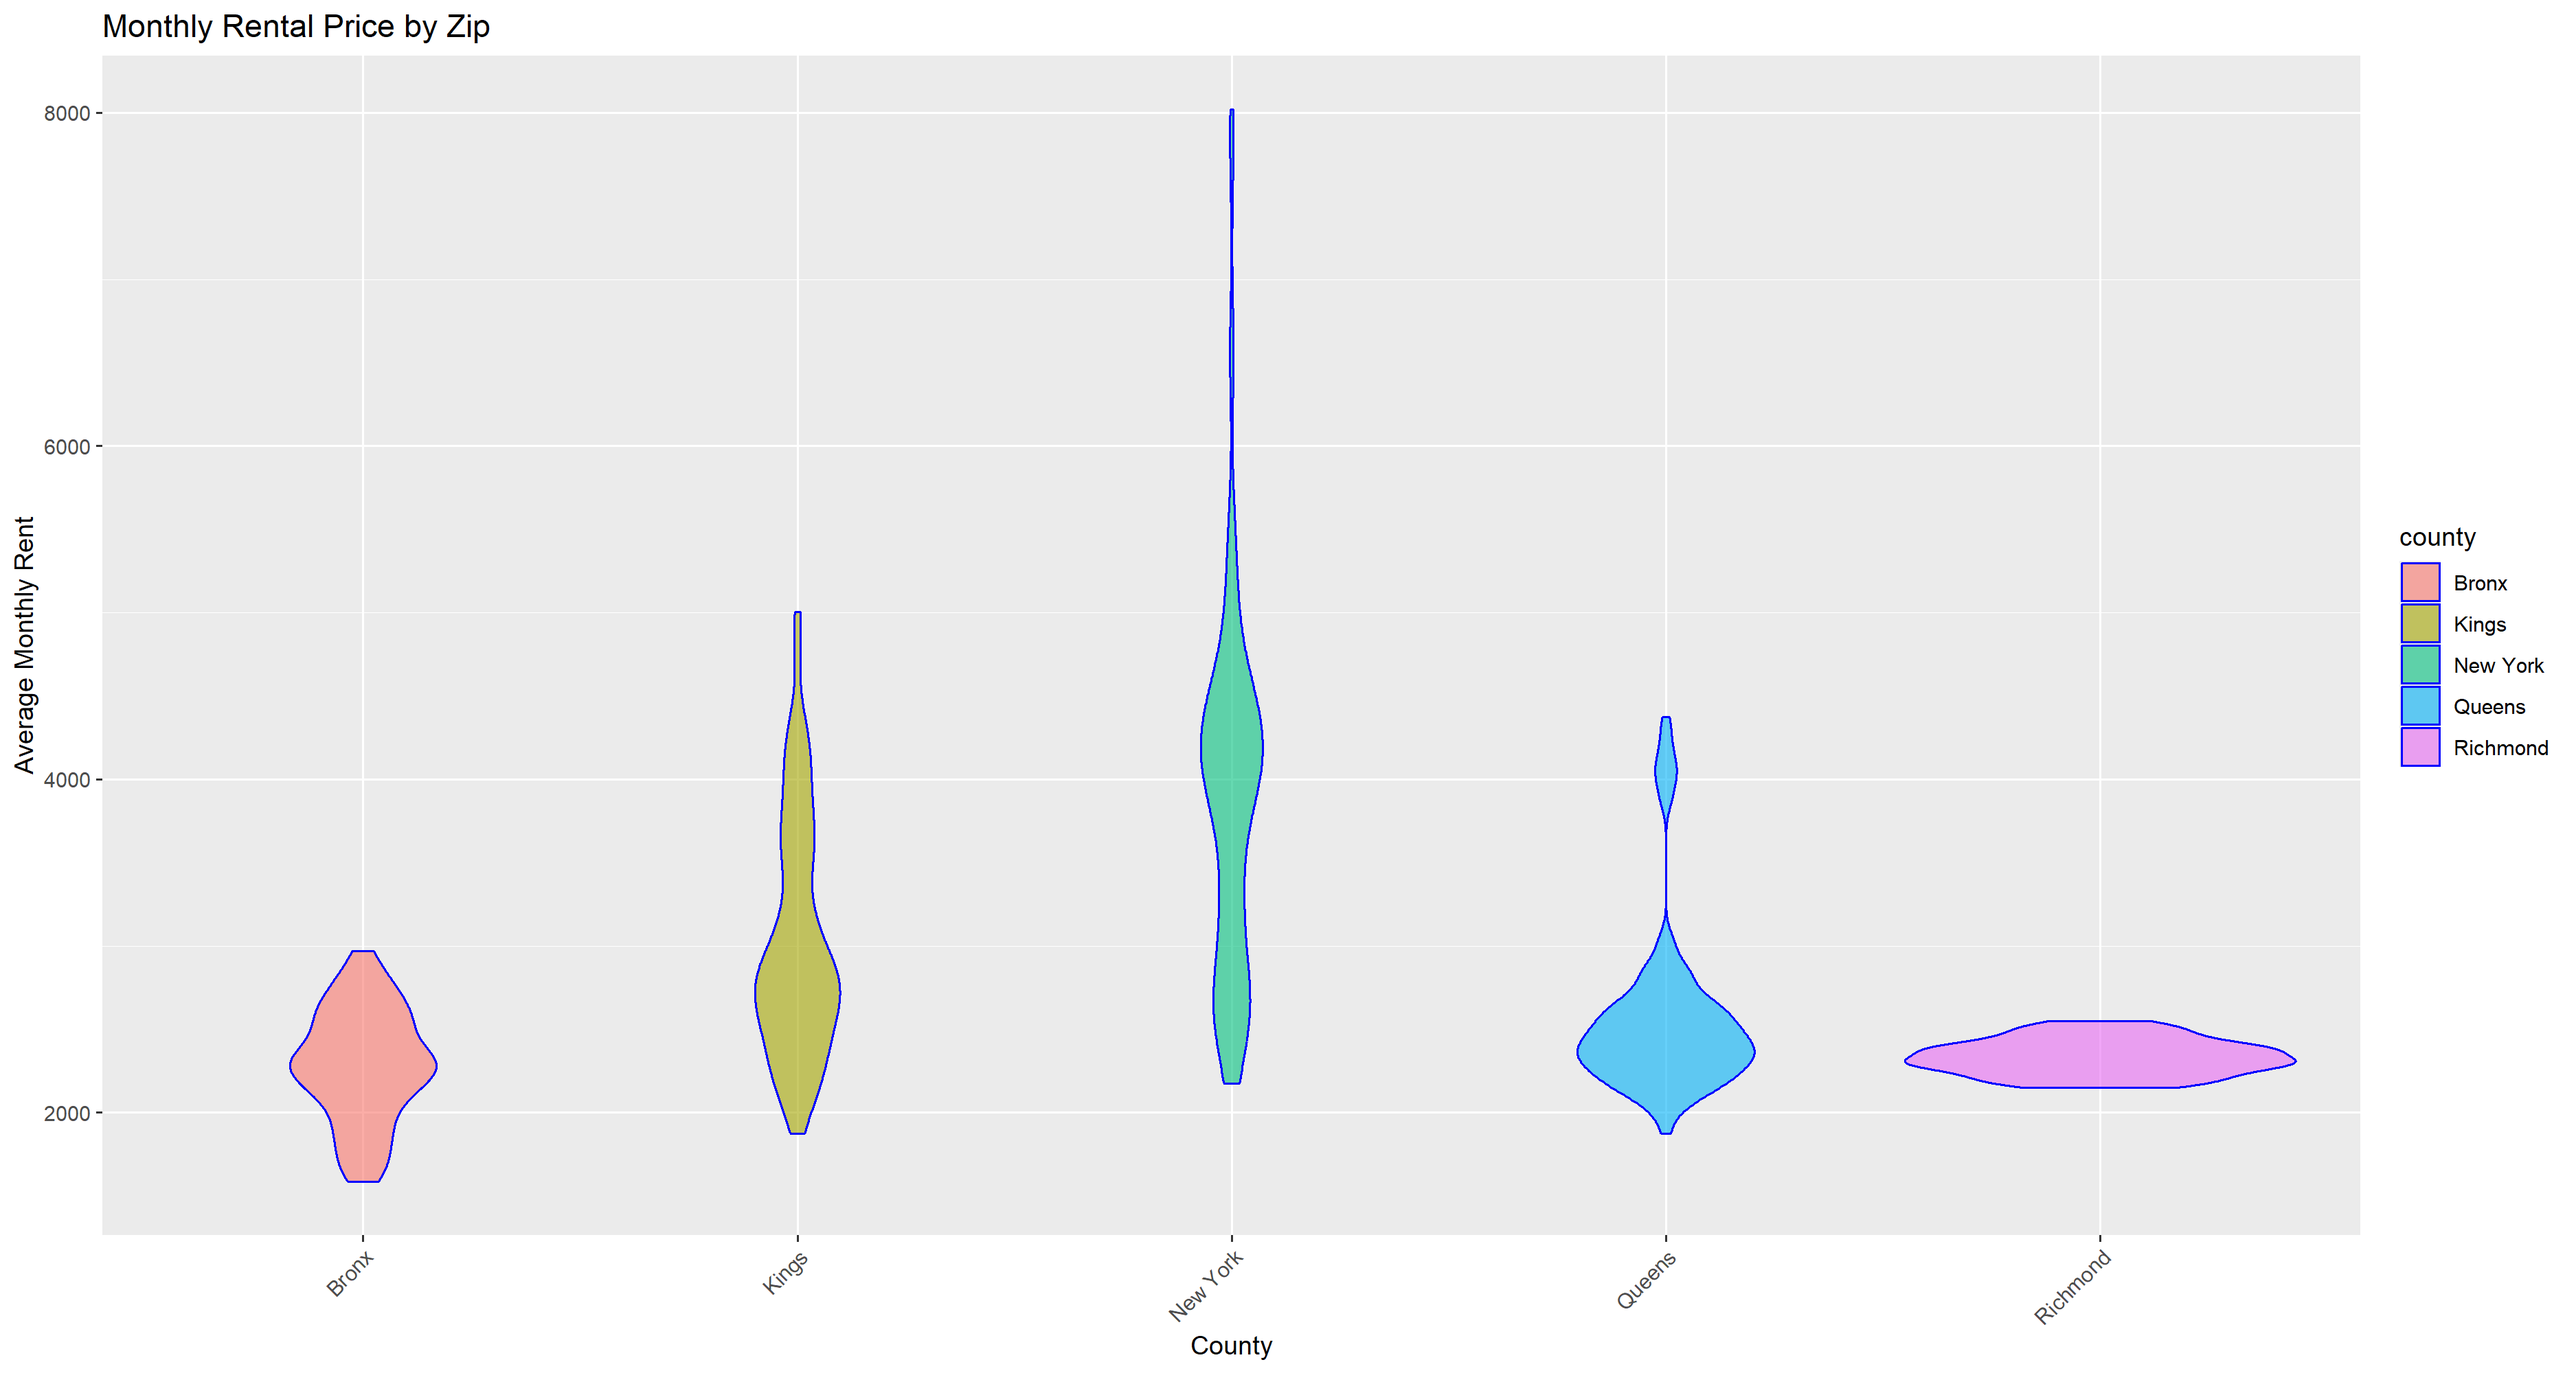
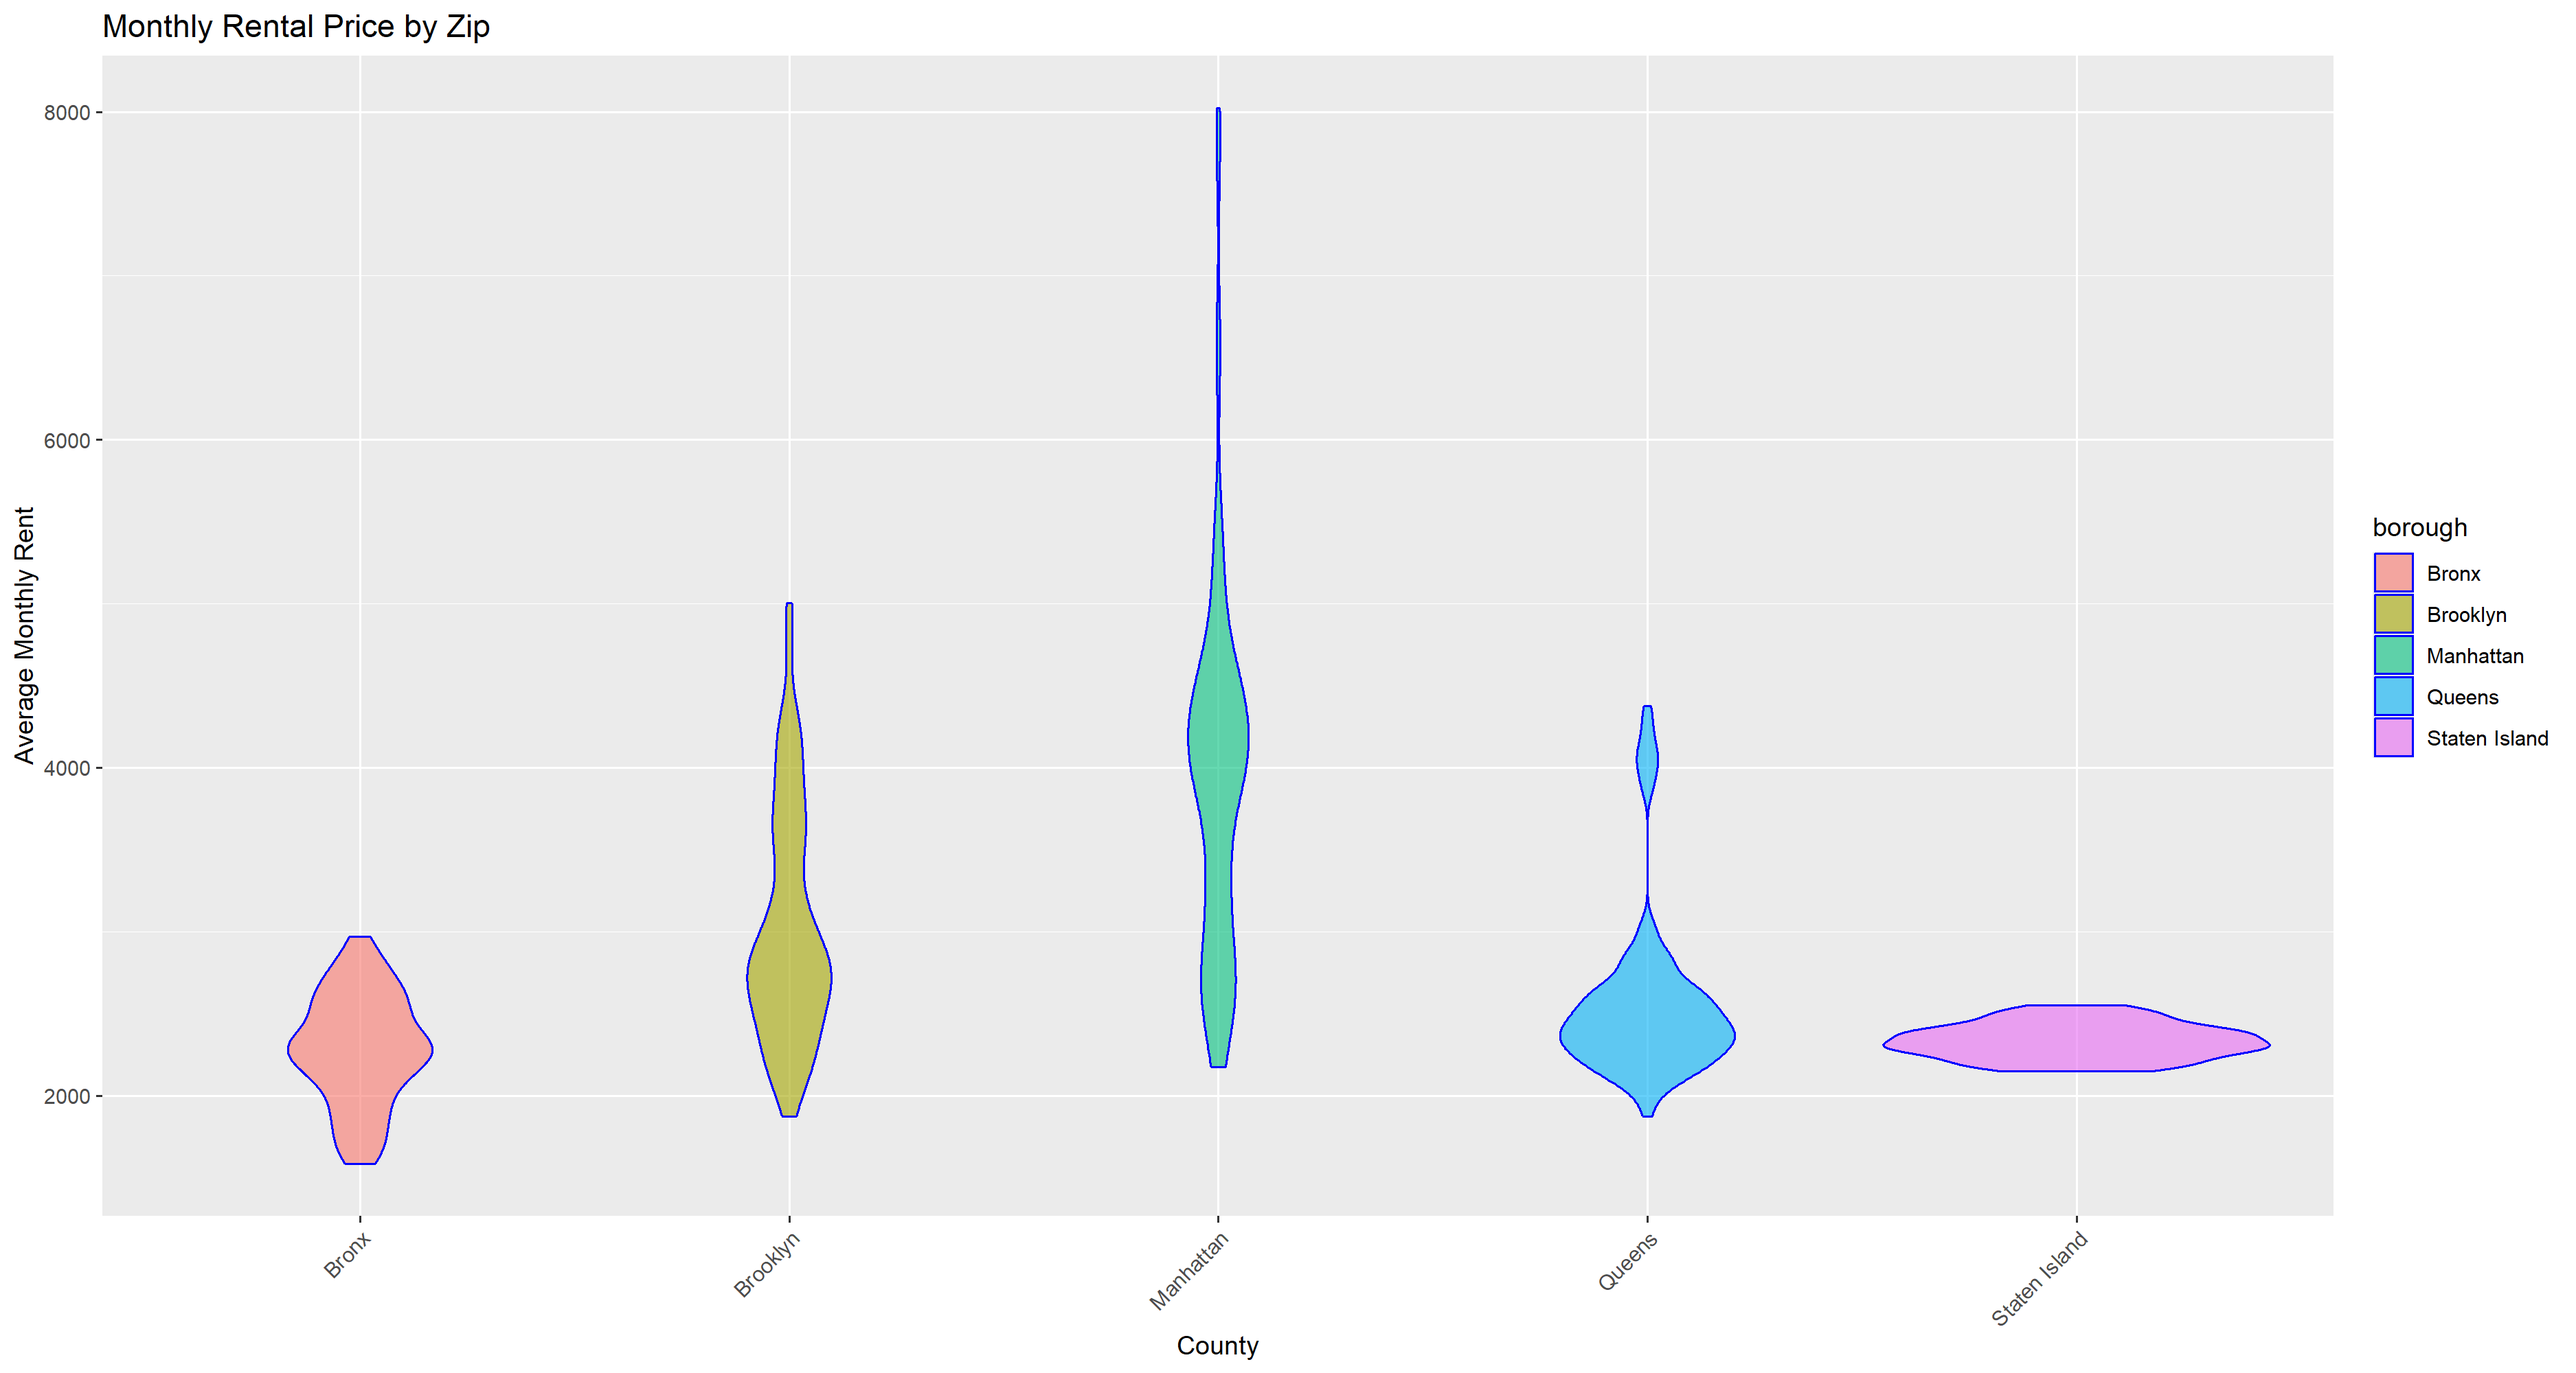
updated by cleaning wrong zip codes in questions

diff --git a/p8105_hw3_sx2402.md b/p8105_hw3_sx2402.md
@@ -193,27 +193,55 @@ and frozen pizza are the most frequently ordered products late at night.
 **Import Dataset**
 
 ``` r
-zip_code = read_csv("./Data/Zip Codes.csv") |> 
-  janitor::clean_names() |> 
-  select(-file_date)
+zip_code =
+  read_csv("./Data/Zip Codes.csv") |>
+  janitor::clean_names() |>
+  select(-file_date) |>
+  filter(
+    !(zip_code == 10463 & county == "New York"),
+    !(zip_code == 11201 & county == "New York"))  |>
+mutate(
+borough = case_match(
+county,
+"Bronx" ~ "Bronx",
+"Kings" ~ "Brooklyn",
+"New York" ~ "Manhattan",
+"Queens" ~ "Queens",
+"Richmond" ~ "Staten Island"
+)
+) |>
+select(zip_code, borough, neighborhood)
 
-zori = read.csv("./Data/Zip_zori_uc_sfrcondomfr_sm_month_NYC.csv") |> 
+
+zori = 
+  read_csv("./Data/Zip_zori_uc_sfrcondomfr_sm_month_NYC.csv") |> 
   janitor::clean_names() |> 
-  filter(region_type == "zip")|> 
-  rename(
-    zip_code = region_name,
-    zori_county = county_name
-         )|> 
-  select(-region_type)
+  filter(region_type == "zip") |> 
+  rename(zip_code = region_name, zori_county = county_name) |> 
+  select(-region_type, -metro, -city, -state, -state_name, -region_id)
 
 zori_long = zori |> 
   pivot_longer(x2015_01_31:x2024_08_31,
                names_to = "date",
                values_to = "zori",
-               names_prefix = "x",
-               )
-zori_zip = left_join(zori_long,zip_code,by="zip_code",relationship = "many-to-many")
+               names_prefix = "x") |> 
+  mutate(date = as_date(date))
+
+zori_zip =
+left_join(zori_long, zip_code, by = "zip_code") |>
+distinct(zip_code, date, .keep_all = TRUE)
+
+zori_zip |> summarize(
+n_obs = n(),
+n_zip = n_distinct(zip_code),
+n_boroughs = n_distinct(borough)
+)
 ```
+
+    ## # A tibble: 1 × 3
+    ##   n_obs n_zip n_boroughs
+    ##   <int> <int>      <int>
+    ## 1 17284   149          5
 
 **How many ZIP codes are observed 116 times? How many are observed fewer
 than 10 times? Why are some ZIP codes are observed rarely and others
@@ -237,7 +265,7 @@ zip_counts |>
 ## # A tibble: 1 × 2
 ##   count1 count2
 ##    <int>  <int>
-## 1     47     26
+## 1     48     26
 
 #filter obs
 zori_counts = left_join(zip_counts,zori_zip, by = "zip_code") |> 
@@ -246,8 +274,8 @@ zori_counts = left_join(zip_counts,zori_zip, by = "zip_code") |>
   arrange(n_obs) |> 
   distinct(zip_code, zori_county, n_obs)
 zori_counts
-## # A tibble: 73 × 3
-## # Groups:   zip_code [73]
+## # A tibble: 74 × 3
+## # Groups:   zip_code [74]
 ##    zip_code zori_county     n_obs
 ##       <dbl> <chr>           <int>
 ##  1    10453 Bronx County        1
@@ -260,15 +288,15 @@ zori_counts
 ##  8    10303 Richmond County     2
 ##  9    10459 Bronx County        2
 ## 10    10460 Bronx County        2
-## # ℹ 63 more rows
+## # ℹ 64 more rows
 ```
 
-There are 47 ZIP codes observed 116 times and 26 fewer than 10 times.
+There are 48 ZIP codes observed 116 times and 26 fewer than 10 times.
 The counties has little observation are relatively distinct and is
 likely to be not rental or not residential so that not enough
 observation and data can be collected through rental pricing. While the
 zip codes observed every month are in majority of New York County and
-Queens where rental is a general option and data is collected easity
+Queens where rental is a general option and data is collected easily
 with large amount of rental deals.
 
 **Create a reader-friendly table showing the average rental price in
@@ -285,7 +313,7 @@ zori_zip_table = zori_zip |>
 
 #average price
 zori_zip_table = zori_zip_table |>  
-  group_by(county, year) |> 
+  group_by(borough, year) |> 
   summarize(
     avg_rent = mean(zori, na.rm = TRUE)
   ) |> 
@@ -298,19 +326,19 @@ zori_zip_table = zori_zip_table |>
 knitr::kable(zori_zip_table, digits = 1)
 ```
 
-| county   |   2015 |   2016 |   2017 |   2018 |   2019 |   2020 |   2021 |   2022 |   2023 |   2024 |
-|:---------|-------:|-------:|-------:|-------:|-------:|-------:|-------:|-------:|-------:|-------:|
-| Bronx    | 1759.6 | 1520.2 | 1543.6 | 1639.4 | 1705.6 | 1811.4 | 1857.8 | 2054.3 | 2285.5 | 2496.9 |
-| Kings    | 2492.9 | 2520.4 | 2545.8 | 2547.3 | 2630.5 | 2555.1 | 2549.9 | 2868.2 | 3015.2 | 3125.7 |
-| New York | 3006.3 | 3014.6 | 3109.1 | 3159.7 | 3285.3 | 3091.3 | 3124.3 | 3753.1 | 3908.2 | 4052.8 |
-| Queens   | 2214.7 | 2272.0 | 2263.3 | 2291.9 | 2387.8 | 2315.6 | 2210.8 | 2406.0 | 2561.6 | 2693.6 |
-| Richmond |     NA |     NA |     NA |     NA |     NA | 1977.6 | 2045.4 | 2147.4 | 2332.9 | 2536.4 |
+| borough | 2015 | 2016 | 2017 | 2018 | 2019 | 2020 | 2021 | 2022 | 2023 | 2024 |
+|:---|---:|---:|---:|---:|---:|---:|---:|---:|---:|---:|
+| Bronx | 1759.6 | 1520.2 | 1543.6 | 1639.4 | 1705.6 | 1811.4 | 1857.8 | 2054.3 | 2285.5 | 2496.9 |
+| Brooklyn | 2492.9 | 2520.4 | 2545.8 | 2547.3 | 2630.5 | 2555.1 | 2549.9 | 2868.2 | 3015.2 | 3125.7 |
+| Manhattan | 3022.0 | 3038.8 | 3133.8 | 3183.7 | 3310.4 | 3106.5 | 3136.6 | 3778.4 | 3932.6 | 4078.4 |
+| Queens | 2214.7 | 2272.0 | 2263.3 | 2291.9 | 2387.8 | 2315.6 | 2210.8 | 2406.0 | 2561.6 | 2693.6 |
+| Staten Island | NA | NA | NA | NA | NA | 1977.6 | 2045.4 | 2147.4 | 2332.9 | 2536.4 |
 
 ``` r
-#check NA in Richmond
+#check NA in Staten Island
 zori_zip |> 
   filter(
-    county == "Richmond",
+    borough == "Staten Island",
     !is.na(zori)
   ) |> 
   summarize(
@@ -321,12 +349,12 @@ zori_zip |>
 
     ## # A tibble: 1 × 2
     ##   mindate    maxdate   
-    ##   <chr>      <chr>     
-    ## 1 2020_08_31 2024_08_31
+    ##   <date>     <date>    
+    ## 1 2020-08-31 2024-08-31
 
 The average rental price increases by year from 2015 to 2024 across all
 counties and with a slower increase in 2021 where pandemic reduces the
-demand of rental. Also, Richmond has no information on rental untile
+demand of rental. Also, Staten Island has no information on rental until
 2020. The New York county has on average highest rental price and Bronx
 has the lowest possibly due to resource, access, and safety concerns.
 
@@ -338,13 +366,13 @@ zori_zip_plot = zori_zip|>
     date = as.Date(date, format = "%Y_%m_%d"),
     year = year(date)
          ) |> 
-  select(zori, year, county,zip_code,date) |> 
+  select(zori, year, borough,zip_code,date) |> 
   drop_na(zori)
 zori_zip_plot_p =
-  ggplot(zori_zip_plot,aes(x = date, y = zori, group = zip_code, color = county, na.rm = TRUE)) +
+  ggplot(zori_zip_plot,aes(x = date, y = zori, group = zip_code, color = borough, na.rm = TRUE)) +
   geom_point(alpha = 0.4, size = 0.4)  +
   geom_line(alpha = 0.4, linewidth = 0.4)+
-  facet_wrap(~ county, strip.position = "bottom", ncol = 1, nrow=5)+
+  facet_wrap(~ borough, strip.position = "bottom", ncol = 1, nrow=5)+
   labs(
     title = "NYC Rental Prices by ZIP Code",
     x = "Year",
@@ -375,14 +403,14 @@ zori_2023 = zori_zip |>
     month = month(date)
     )|> 
   filter(year == 2023) |> 
-  group_by(zip_code, county, month) |> 
+  group_by(zip_code, borough, month) |> 
   summarize(
     avg_rent = mean(zori, na.rm = TRUE),
     .groups = "drop"
   )
 
-zori_2023_p = ggplot(zori_2023, aes(x = county, y = avg_rent)) +
-  geom_violin(alpha = 0.6, aes(fill = county),color = "blue", na.rm = TRUE)+
+zori_2023_p = ggplot(zori_2023, aes(x = borough, y = avg_rent)) +
+  geom_violin(alpha = 0.6, aes(fill = borough),color = "blue", na.rm = TRUE)+
   labs(
     title = "Monthly Rental Price by Zip",
     x = "County",
